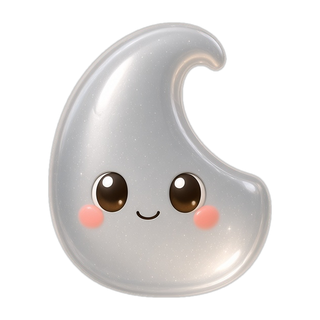
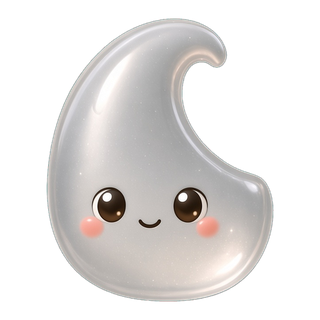
7 种新灯籽补 idle/happy/sad/sleep 立绘，重新抠图去掉底部阴影残边

diff --git a/apps/mobile/src/Character.tsx b/apps/mobile/src/Character.tsx
@@ -65,18 +65,34 @@ const SHEETS: Record<string, Record<string, ImageSourcePropType>> = {
   },
 };
 
-// 其余 7 种灯籽暂时只有一张立绘（选形象用的那张）；表情靠果冻动画表现，之后再补各表情图。
-const SINGLE: Record<string, ImageSourcePropType> = {
-  bud: require("../assets/forms/bud.png"),
-  dew: require("../assets/forms/dew.png"),
-  star: require("../assets/forms/star.png"),
-  peach: require("../assets/forms/peach.png"),
-  acorn: require("../assets/forms/acorn.png"),
-  moon: require("../assets/forms/moon.png"),
-  amber: require("../assets/forms/amber.png"),
-};
-for (const [id, img] of Object.entries(SINGLE)) {
-  SHEETS[id] = { idle: img, happy: img, talking: img, sad: img, thinking: img, held: img, sleep: img };
+// 其余 7 种灯籽：idle / happy / sad / sleep 四张立绘；说话、思考沿用 idle，被抱起沿用 happy（动画补足差别）。
+{
+  const idle = require("../assets/hd/olo/bud-idle.png"), happy = require("../assets/hd/olo/bud-happy.png");
+  SHEETS.bud = { idle, happy, talking: idle, sad: require("../assets/hd/olo/bud-sad.png"), thinking: idle, held: happy, sleep: require("../assets/hd/olo/bud-sleep.png") };
+}
+{
+  const idle = require("../assets/hd/olo/dew-idle.png"), happy = require("../assets/hd/olo/dew-happy.png");
+  SHEETS.dew = { idle, happy, talking: idle, sad: require("../assets/hd/olo/dew-sad.png"), thinking: idle, held: happy, sleep: require("../assets/hd/olo/dew-sleep.png") };
+}
+{
+  const idle = require("../assets/hd/olo/star-idle.png"), happy = require("../assets/hd/olo/star-happy.png");
+  SHEETS.star = { idle, happy, talking: idle, sad: require("../assets/hd/olo/star-sad.png"), thinking: idle, held: happy, sleep: require("../assets/hd/olo/star-sleep.png") };
+}
+{
+  const idle = require("../assets/hd/olo/peach-idle.png"), happy = require("../assets/hd/olo/peach-happy.png");
+  SHEETS.peach = { idle, happy, talking: idle, sad: require("../assets/hd/olo/peach-sad.png"), thinking: idle, held: happy, sleep: require("../assets/hd/olo/peach-sleep.png") };
+}
+{
+  const idle = require("../assets/hd/olo/acorn-idle.png"), happy = require("../assets/hd/olo/acorn-happy.png");
+  SHEETS.acorn = { idle, happy, talking: idle, sad: require("../assets/hd/olo/acorn-sad.png"), thinking: idle, held: happy, sleep: require("../assets/hd/olo/acorn-sleep.png") };
+}
+{
+  const idle = require("../assets/hd/olo/moon-idle.png"), happy = require("../assets/hd/olo/moon-happy.png");
+  SHEETS.moon = { idle, happy, talking: idle, sad: require("../assets/hd/olo/moon-sad.png"), thinking: idle, held: happy, sleep: require("../assets/hd/olo/moon-sleep.png") };
+}
+{
+  const idle = require("../assets/hd/olo/amber-idle.png"), happy = require("../assets/hd/olo/amber-happy.png");
+  SHEETS.amber = { idle, happy, talking: idle, sad: require("../assets/hd/olo/amber-sad.png"), thinking: idle, held: happy, sleep: require("../assets/hd/olo/amber-sleep.png") };
 }
 
 const STATE_FOR: Record<Mood, string> = {
